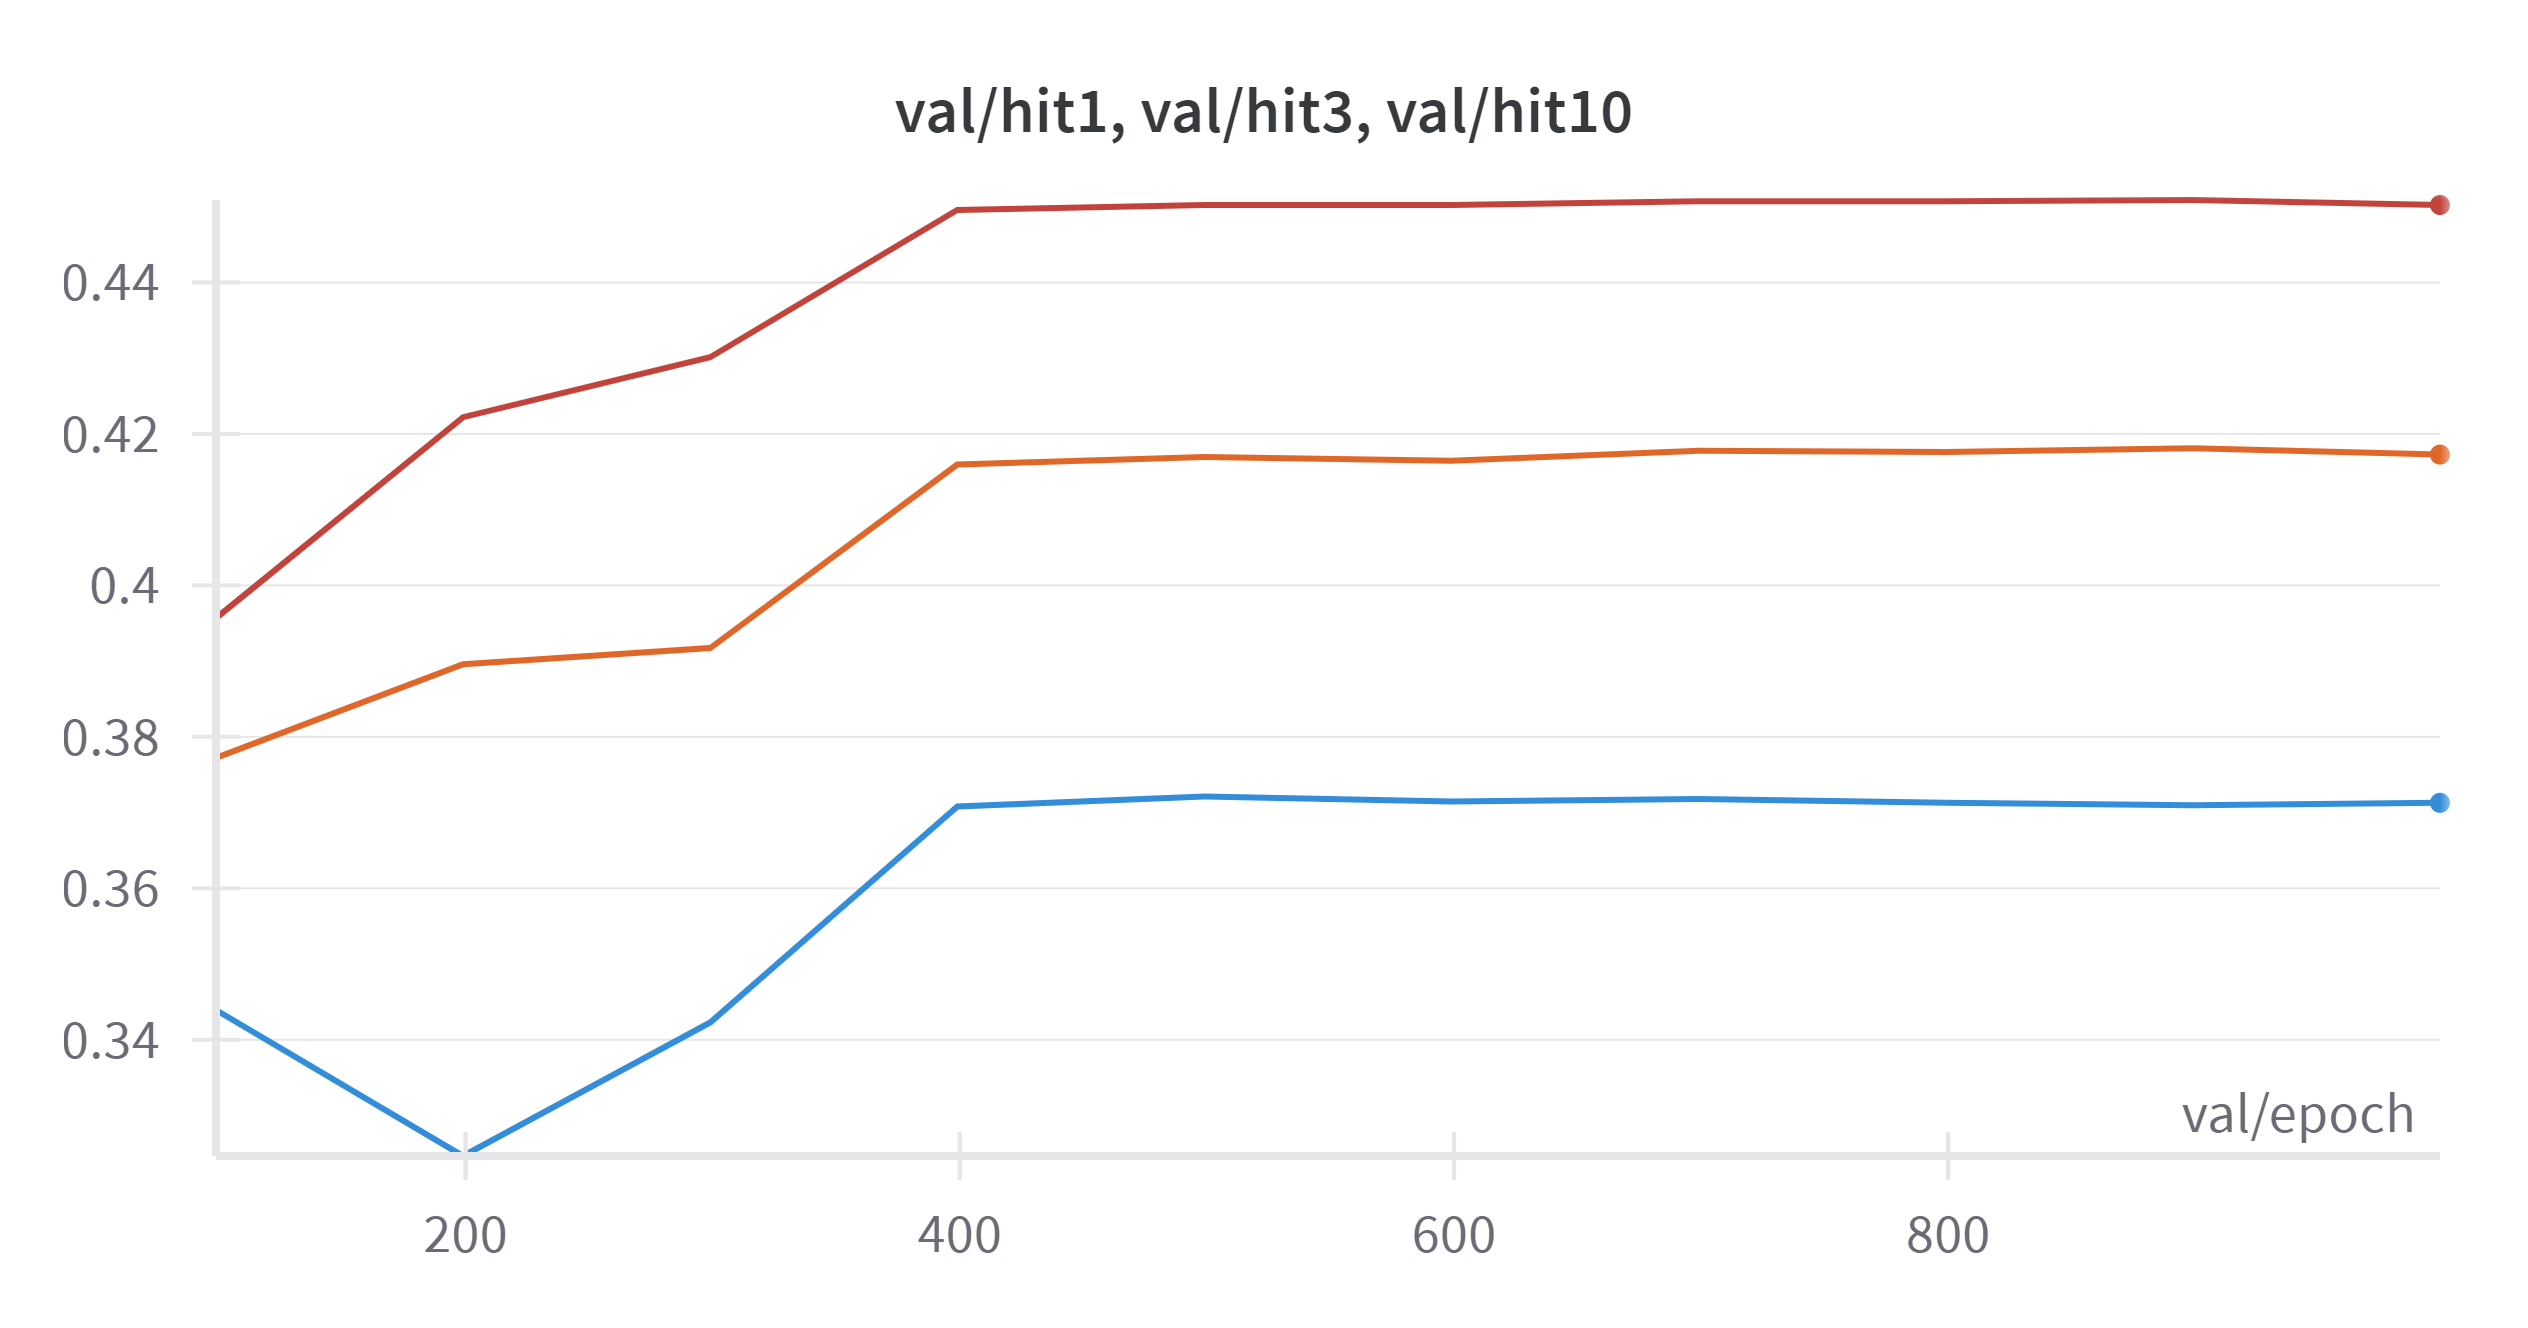
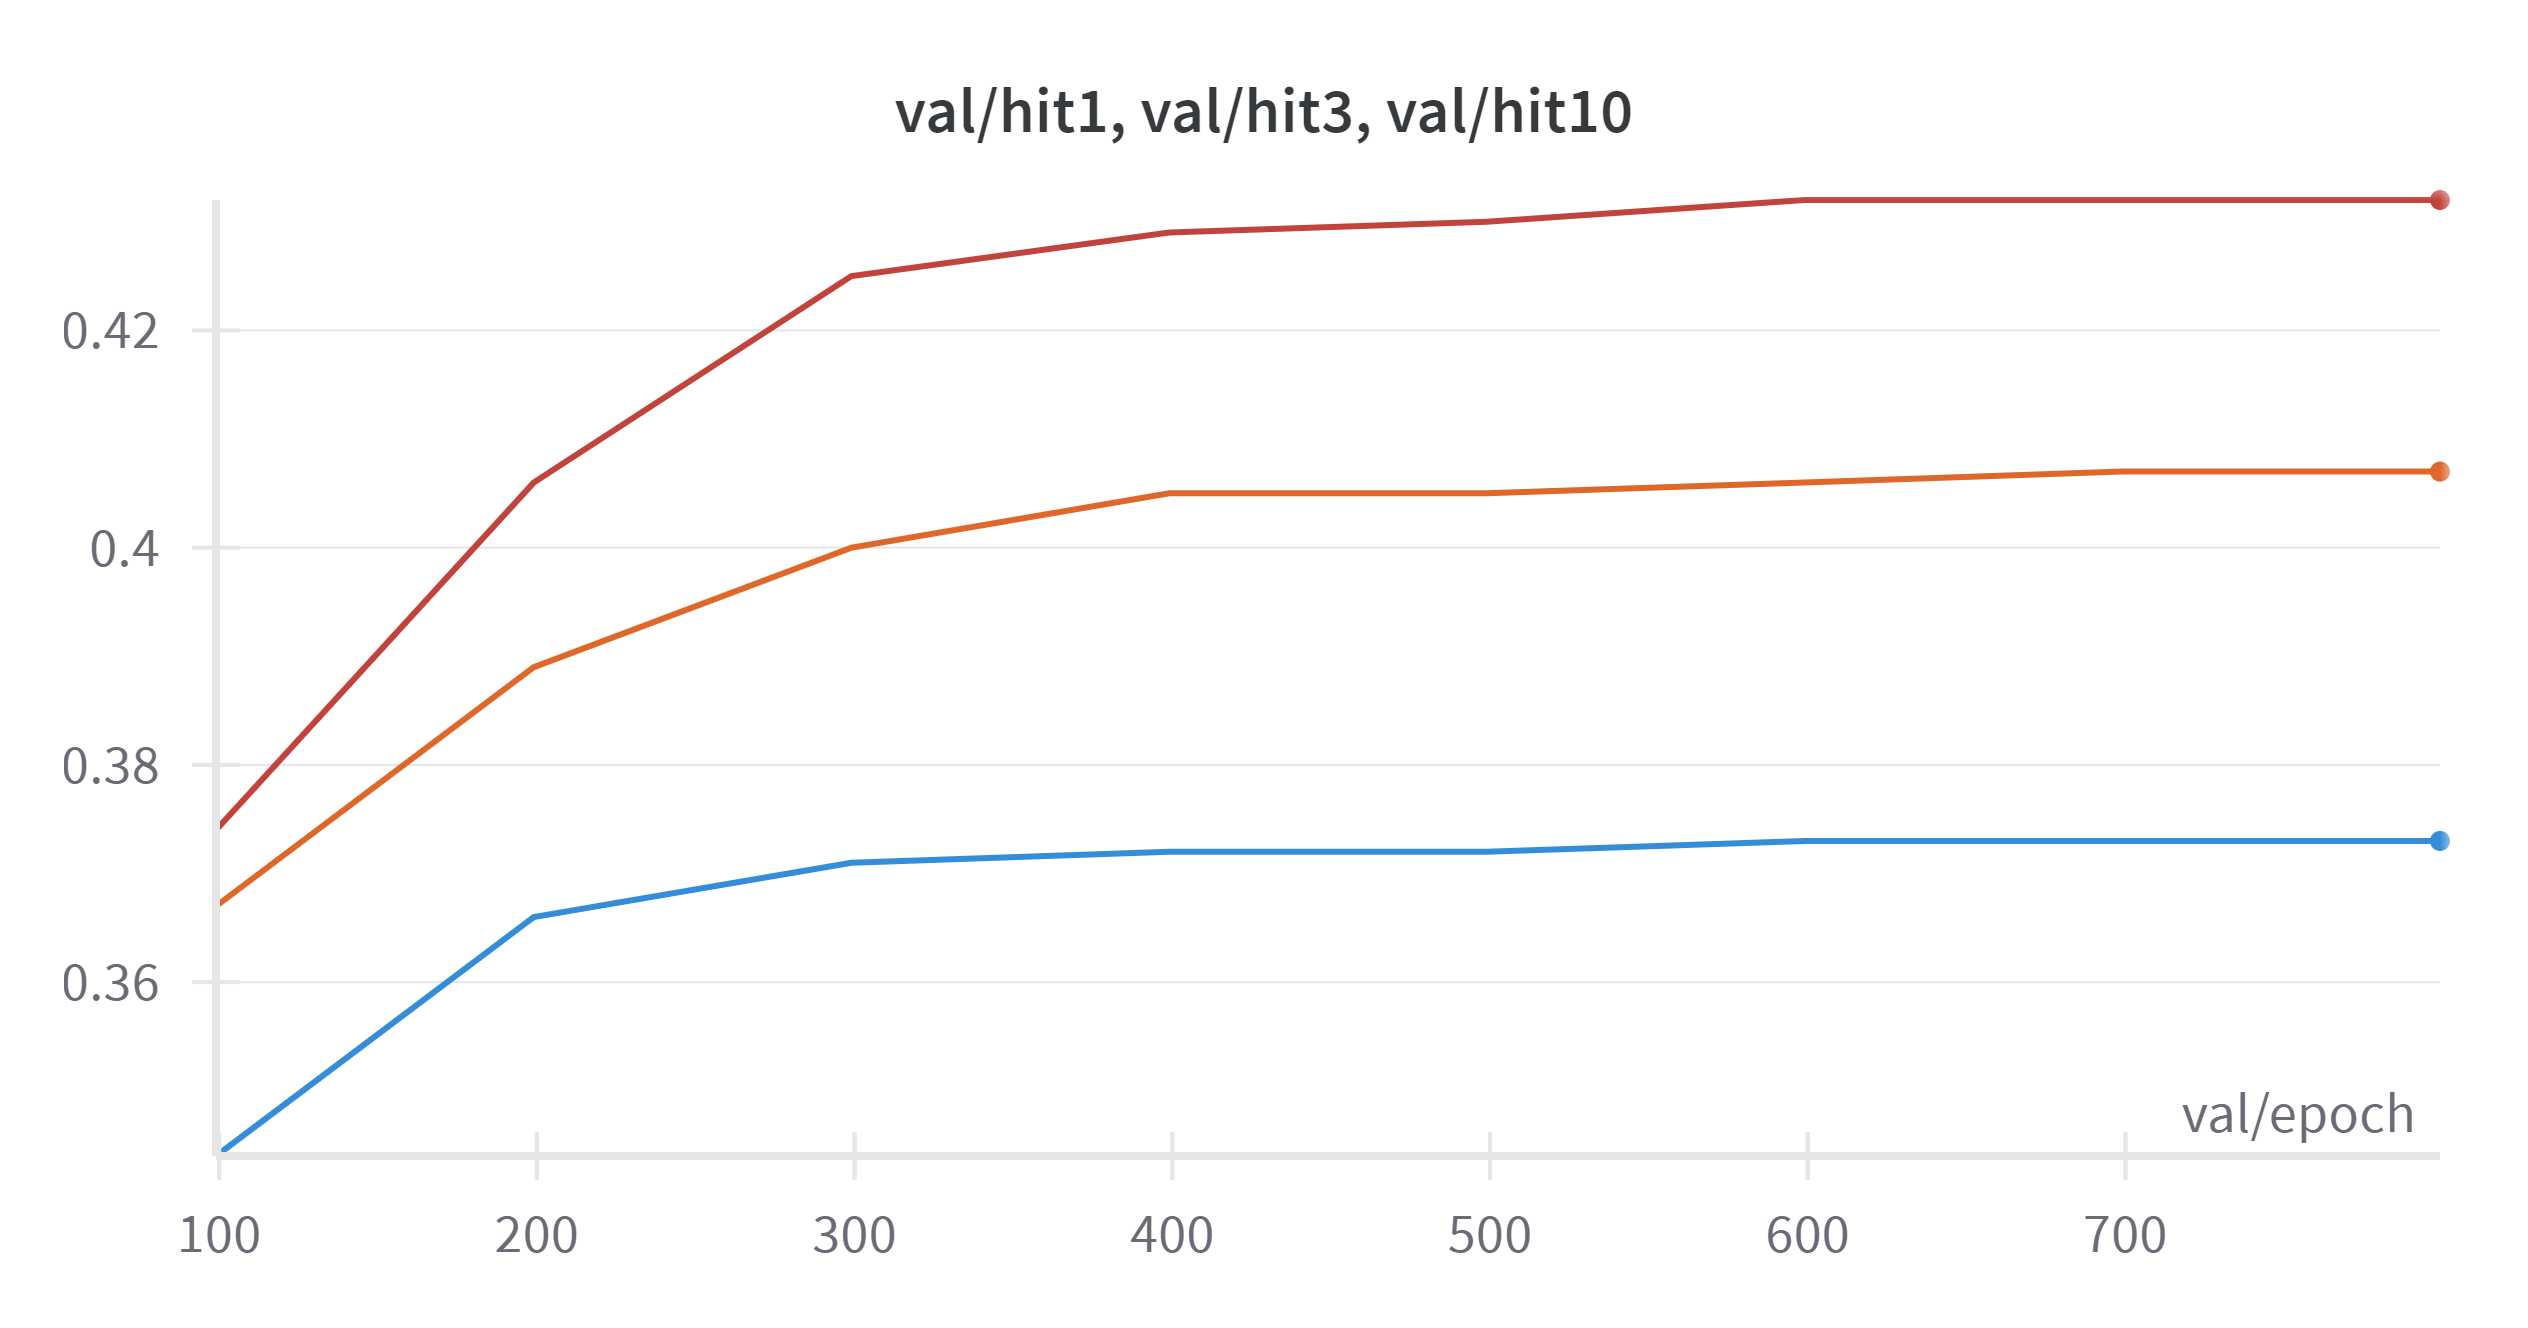
修改 HolE 实验结果

diff --git a/examples/TransE/single_gpu_transe_FB15K237_wandb.py b/examples/TransE/single_gpu_transe_FB15K237_wandb.py
@@ -18,7 +18,7 @@ pybind11-OpenKE 有 1 个工具用于导入数据: :py:class:`pybind11_ke.data.K
 """
 
 from pybind11_ke.utils import WandbLogger
-from pybind11_ke.data import KGEDataLoader, UniSampler, TradTestSampler
+from pybind11_ke.data import KGEDataLoader, BernSampler, TradTestSampler
 from pybind11_ke.module.model import TransE
 from pybind11_ke.module.loss import MarginLoss
 from pybind11_ke.module.strategy import NegativeSampling
@@ -42,7 +42,7 @@ wandb_logger = WandbLogger(
 		norm_flag = True,
 		margin = 5.0,
 		use_gpu = True,
-		device = 'cuda:1',
+		device = 'cuda:0',
 		epochs = 1000,
 		lr = 1.0,
 		valid_interval = 100,
@@ -66,7 +66,7 @@ dataloader = KGEDataLoader(
 	test = config.test,
 	test_batch_size = config.test_batch_size,
 	num_workers = config.num_workers,
-	train_sampler = UniSampler,
+	train_sampler = BernSampler,
 	test_sampler = TradTestSampler
 )
 
